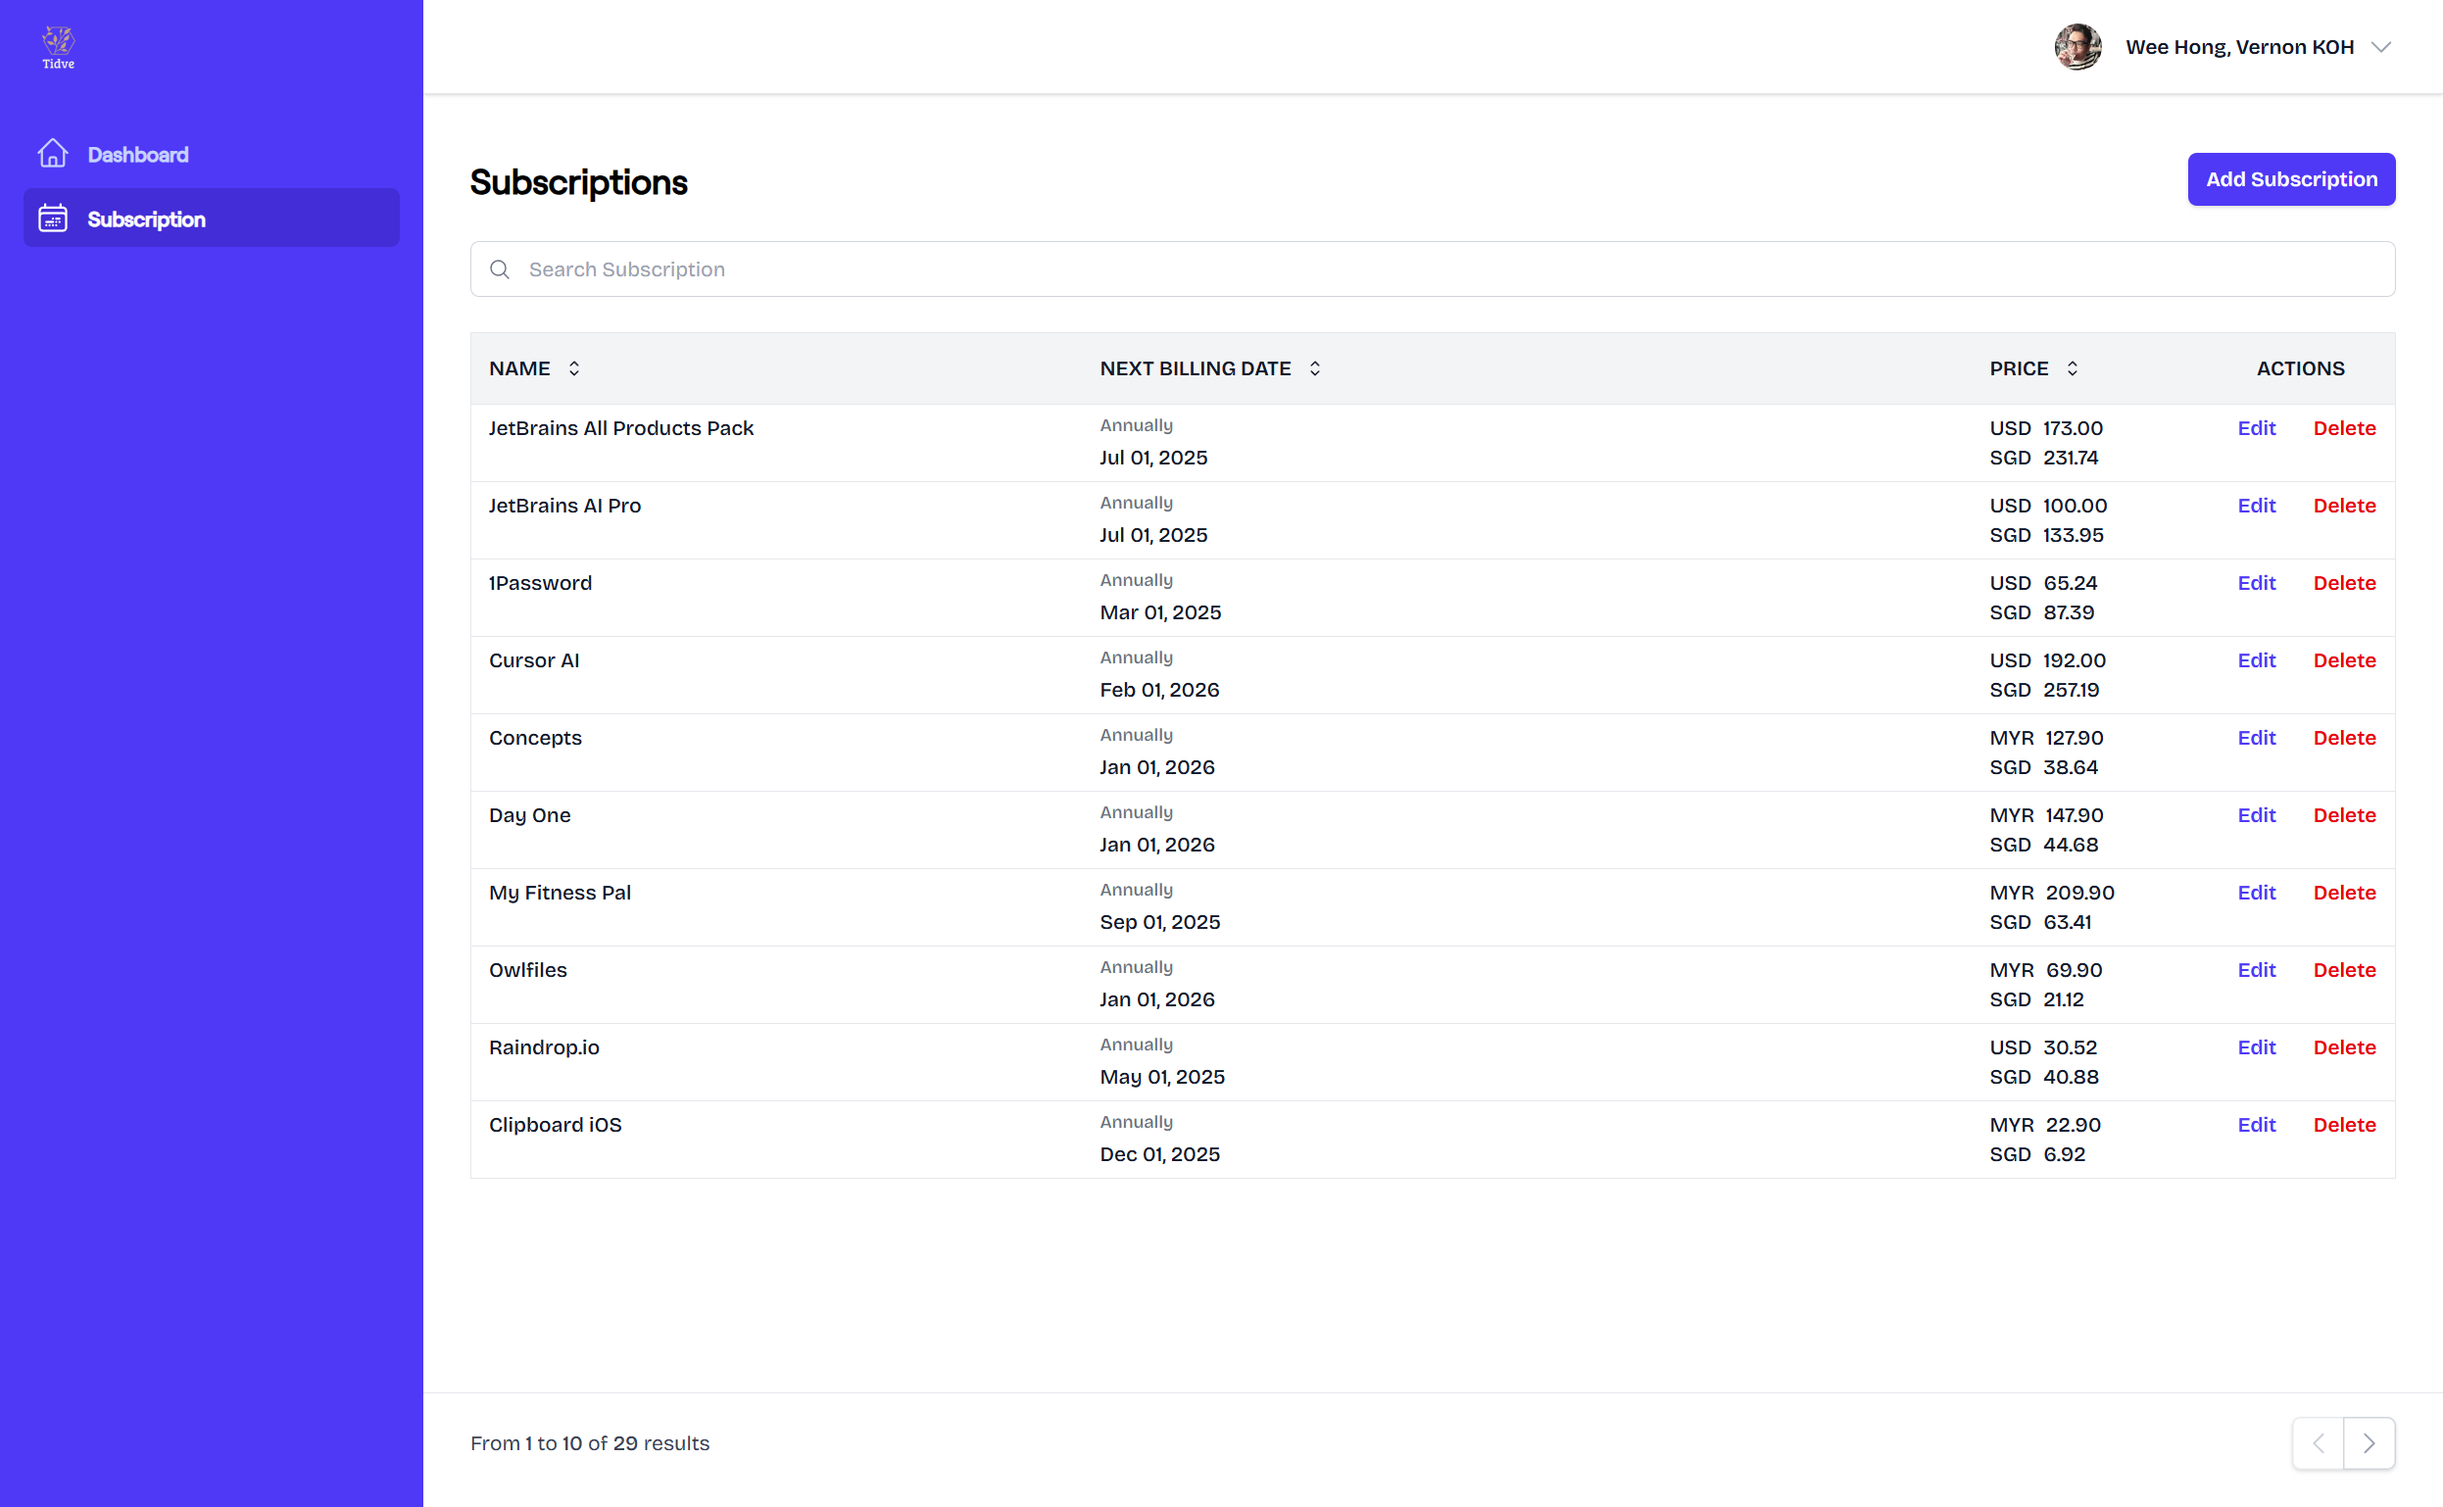
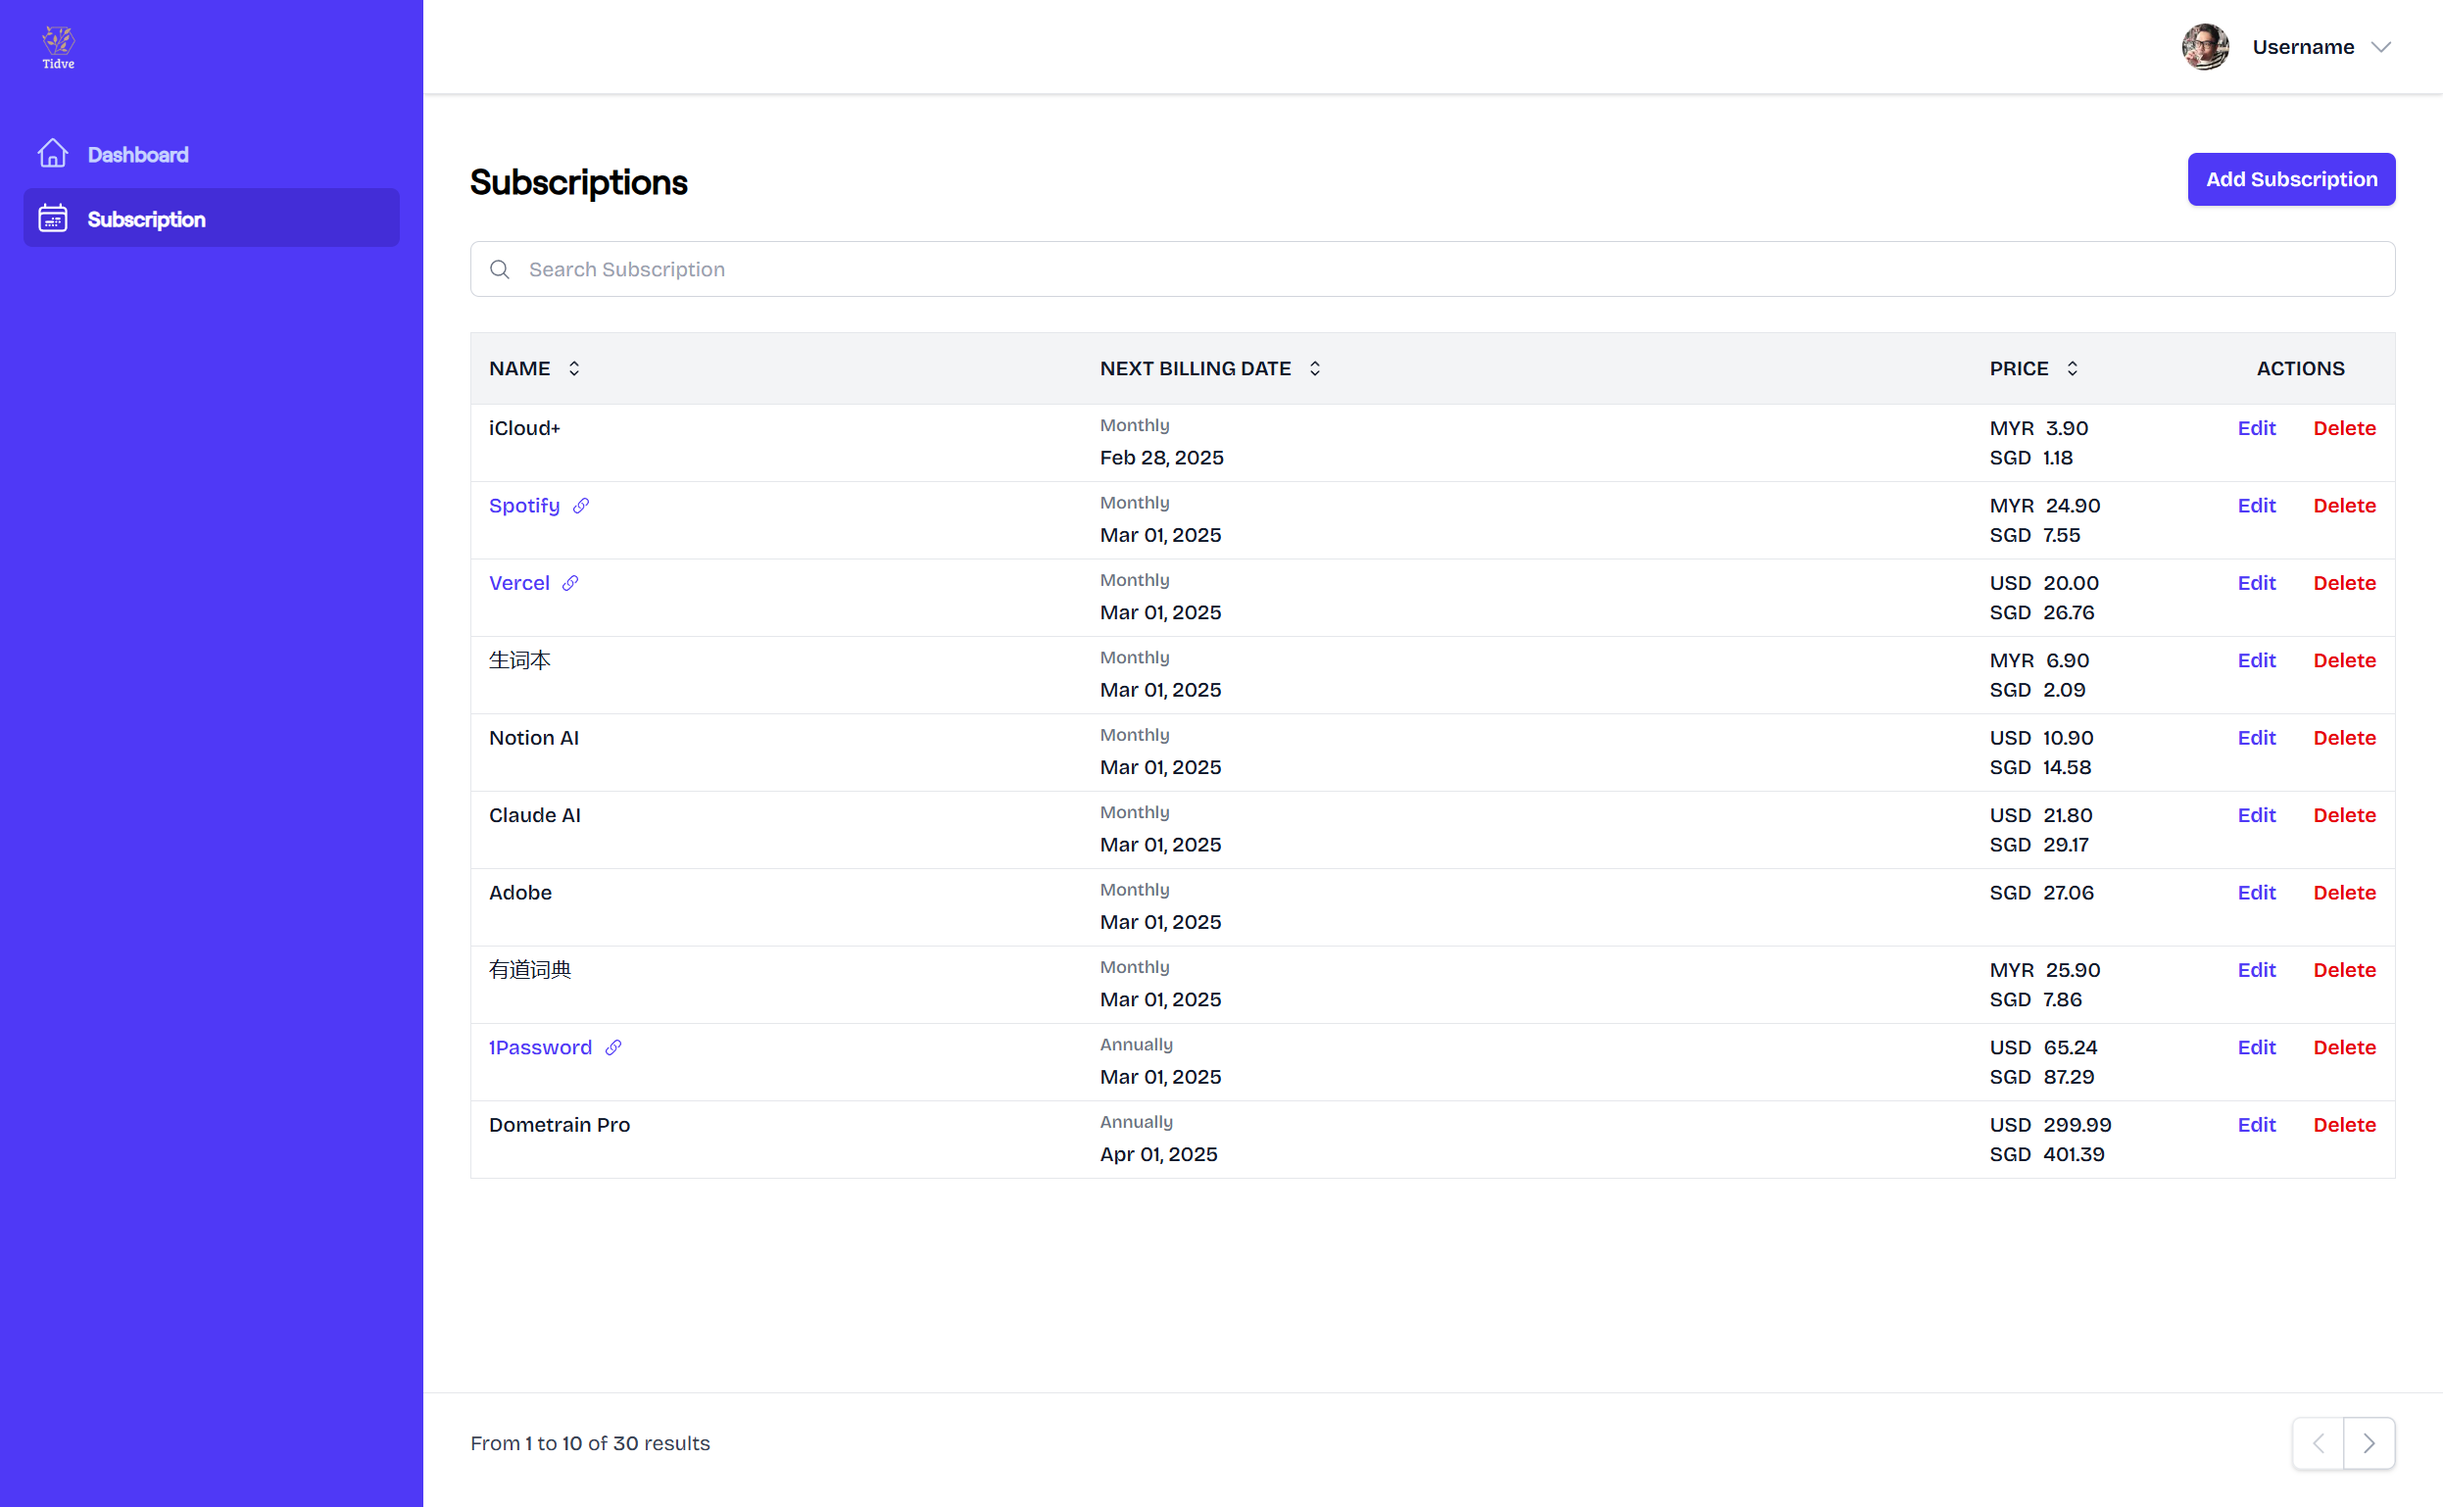
feat(subscription): add URL field to subscription

diff --git a/src/app/(protected)/subscription/table.tsx b/src/app/(protected)/subscription/table.tsx
@@ -2,8 +2,10 @@
 
 import { useMemo, useState } from "react";
 
+import { LinkIcon } from "@heroicons/react/24/outline";
 import { Rate, Subscription } from "@prisma/client";
 import { ColumnDef } from "@tanstack/react-table";
+import classNames from "classnames";
 import useSWR from "swr";
 
 import SubscriptionForm from "@/app/(protected)/subscription/form";
@@ -40,9 +42,23 @@ export default function SubscriptionTable(): React.ReactNode {
         accessorKey: "name",
         header: "Name",
         enableSorting: true,
-        cell: ({ getValue }) => (
+        cell: ({ row }) => (
           <div className="flex items-center gap-2 sm:table-cell">
-            <span>{getValue<string>()}</span>
+            {row.original.url ? (
+              <a
+                href={row.original.url || ""}
+                target="_blank"
+                className={classNames(
+                  "flex items-center gap-2 text-indigo-600 hover:text-indigo-600",
+                  !row.original.url && "text-gray-500",
+                )}
+              >
+                <span>{row.original.name}</span>
+                <LinkIcon className="h-3 w-3" />
+              </a>
+            ) : (
+              <span>{row.original.name}</span>
+            )}
           </div>
         ),
       },
@@ -146,6 +162,11 @@ export default function SubscriptionTable(): React.ReactNode {
     }
   };
 
+  const sortByNextBillingDate = (data: Subscription[]) =>
+    data.sort(
+      (a, b) => new Date(a.endDate).getTime() - new Date(b.endDate).getTime(),
+    );
+
   return (
     <div className="flex flex-col gap-6">
       <ActionDialog
@@ -172,7 +193,7 @@ export default function SubscriptionTable(): React.ReactNode {
       <DataTable
         id="subscriptions-table"
         columns={columns}
-        data={data || []}
+        data={sortByNextBillingDate(data || [])}
         isLoading={isLoading || isRatesLoading}
         error={error}
         onRefresh={mutate}

diff --git a/src/app/api/subscription/route.ts b/src/app/api/subscription/route.ts
@@ -4,7 +4,9 @@ import { PrismaClient } from "@prisma/client";
 
 import { auth0 } from "@/libs/auth/auth0";
 
-const prisma = new PrismaClient();
+const prisma = new PrismaClient({
+  log: ["query", "info", "warn", "error"],
+});
 
 export async function GET(): Promise<NextResponse> {
   try {
@@ -27,6 +29,7 @@ export async function GET(): Promise<NextResponse> {
         cycleInMonths: true,
         startDate: true,
         endDate: true,
+        url: true,
       },
     });
 
@@ -48,7 +51,7 @@ export async function POST(request: NextRequest) {
       return NextResponse.json({ error: "Unauthorized" }, { status: 401 });
     }
 
-    const { name, currency, price, cycle, start_date, end_date } =
+    const { name, currency, price, cycle, start_date, end_date, url } =
       await request.json();
 
     const subscription = await prisma.subscription.create({
@@ -60,6 +63,7 @@ export async function POST(request: NextRequest) {
         cycleInMonths: cycle,
         startDate: new Date(start_date),
         endDate: new Date(end_date),
+        url,
       },
       select: {
         id: true,
@@ -69,6 +73,7 @@ export async function POST(request: NextRequest) {
         cycleInMonths: true,
         startDate: true,
         endDate: true,
+        url: true,
       },
     });
 

diff --git a/src/app/(protected)/subscription/form.tsx b/src/app/(protected)/subscription/form.tsx
@@ -42,6 +42,7 @@ const INITIAL_FORM_VALUES: SubscriptionFormValues = {
   cycle: 1,
   start_date: new Date().toISOString().split("T")[0],
   end_date: new Date().toISOString().split("T")[0],
+  url: "",
 } as const;
 
 export default function SubscriptionForm({
@@ -135,6 +136,7 @@ export default function SubscriptionForm({
           cycleInMonths: data.cycle,
           currency: data.currency.value,
           numberEmailSent: 0,
+          url: data.url || null,
         });
       } else {
         res = await createSubscription({
@@ -144,6 +146,7 @@ export default function SubscriptionForm({
           cycleInMonths: data.cycle,
           currency: data.currency.value,
           numberEmailSent: 0,
+          url: data.url || null,
         });
       }
 
@@ -254,6 +257,18 @@ export default function SubscriptionForm({
               register={register}
               readOnly
               disabled
+            />
+          </div>
+
+          <div className="col-span-9">
+            <InputField
+              type="url"
+              id="url"
+              label="Website"
+              name="url"
+              register={register}
+              error={!!errors.url}
+              helperText={errors.url?.message}
             />
           </div>
         </div>

diff --git a/src/app/api/subscription/[id]/route.ts b/src/app/api/subscription/[id]/route.ts
@@ -61,7 +61,7 @@ export async function PUT(
       return NextResponse.json({ error: "Unauthorized" }, { status: 401 });
     }
 
-    const { name, currency, price, cycle, start_date, end_date } =
+    const { name, currency, price, cycle, start_date, end_date, url } =
       await request.json();
 
     await prisma.subscription.update({
@@ -73,6 +73,7 @@ export async function PUT(
         cycleInMonths: cycle,
         startDate: new Date(start_date),
         endDate: new Date(end_date),
+        url,
         isActive: true,
       },
     });
@@ -85,6 +86,7 @@ export async function PUT(
       cycleInMonths: subscription.cycleInMonths,
       startDate: subscription.startDate,
       endDate: subscription.endDate,
+      url: subscription.url,
       isActive: subscription.isActive,
       createdAt: subscription.createdAt,
       updatedAt: subscription.updatedAt,

diff --git a/src/app/(public)/page.tsx b/src/app/(public)/page.tsx
@@ -5,7 +5,9 @@ export default function Home(): React.ReactNode {
   return (
     <div className="items container mx-auto flex h-[calc(100vh-65px)] flex-col items-center gap-4 gap-y-10 p-10">
       <div className="flex max-w-2xl flex-col gap-2 gap-y-8 text-center">
-        <h1 className="font-canela text-9xl font-bold">Tidve App</h1>
+        <h1 className="font-canela text-5xl font-bold sm:text-9xl">
+          Tidve App
+        </h1>
         <p className="font-instrument min-h-[10rem] text-xl">
           Track and understand your monthly commitment based on your preferred
           currency

diff --git a/src/components/section/Section.tsx b/src/components/section/Section.tsx
@@ -8,7 +8,7 @@ export default function HomeSection({
   return (
     <div className="grid grid-cols-2 gap-4 sm:grid-cols-3">
       <div className="col-span-2 mb-10 sm:col-span-3">
-        <h2 className="mb-10 text-center text-6xl font-bold text-gray-700">
+        <h2 className="mb-10 text-center text-3xl font-bold text-gray-700 sm:text-6xl">
           {title}
         </h2>
         {children}

diff --git a/src/libs/validation/subscription.ts b/src/libs/validation/subscription.ts
@@ -25,6 +25,7 @@ export const SubscriptionFormSchema = z.object({
   cycle: z.coerce
     .number()
     .min(1, { message: "Cycle must be at least 1 month" }),
+  url: z.string().url().optional(),
   start_date: z
     .string()
     .min(1, { message: "Start date is required" })

diff --git a/README.md b/README.md
@@ -29,10 +29,13 @@ This helps users understand their expenses better and make informed decisions ab
 - [PostgreSQL](https://postgresql.org)
 - [Vercel](https://vercel.com)
 - [Resend](https://resend.com)
+
 ## How to Use
 
 1. Clone the repository.
 2. Run `npm install` to install the dependencies.
 3. Copy `.env.example` to `.env` and fill in the values.
-4. Run `npm run dev` to start the development server.
-5. Open [http://localhost:3000](http://localhost:3000) in your browser to see the result.
+4. Run `npx prisma generate` to generate the Prisma client.
+5. Run `npx prisma migrate dev` to migrate the database.
+6. Run `npm run dev` to start the development server.
+7. Open [http://localhost:3000](http://localhost:3000) in your browser to see the result.
